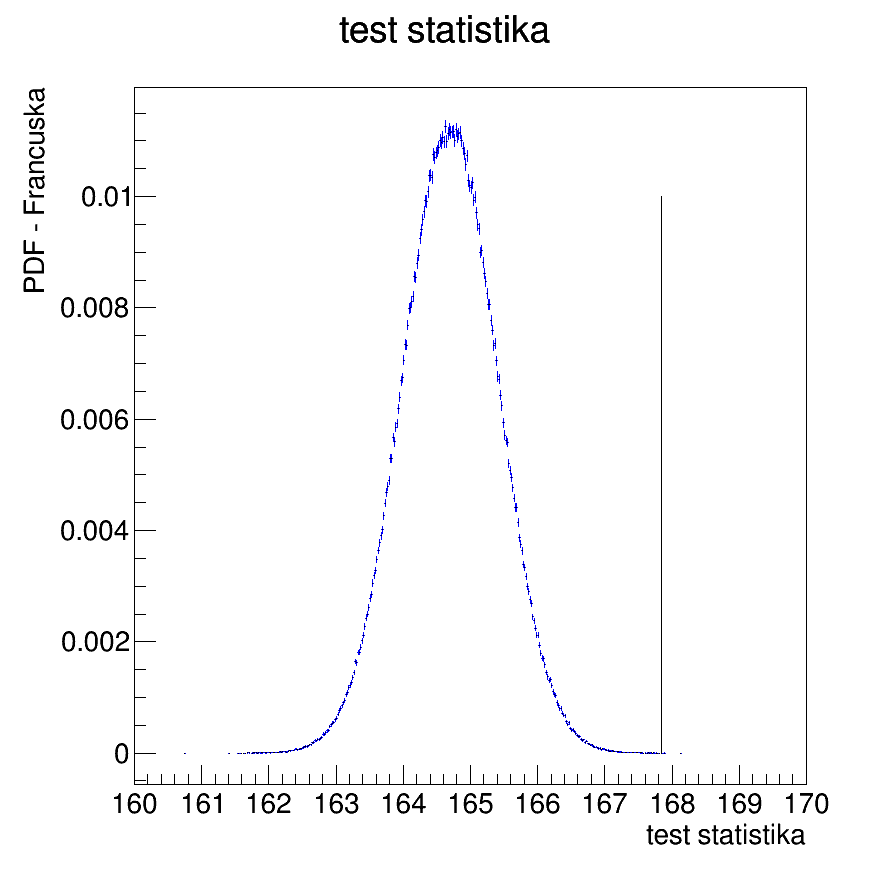
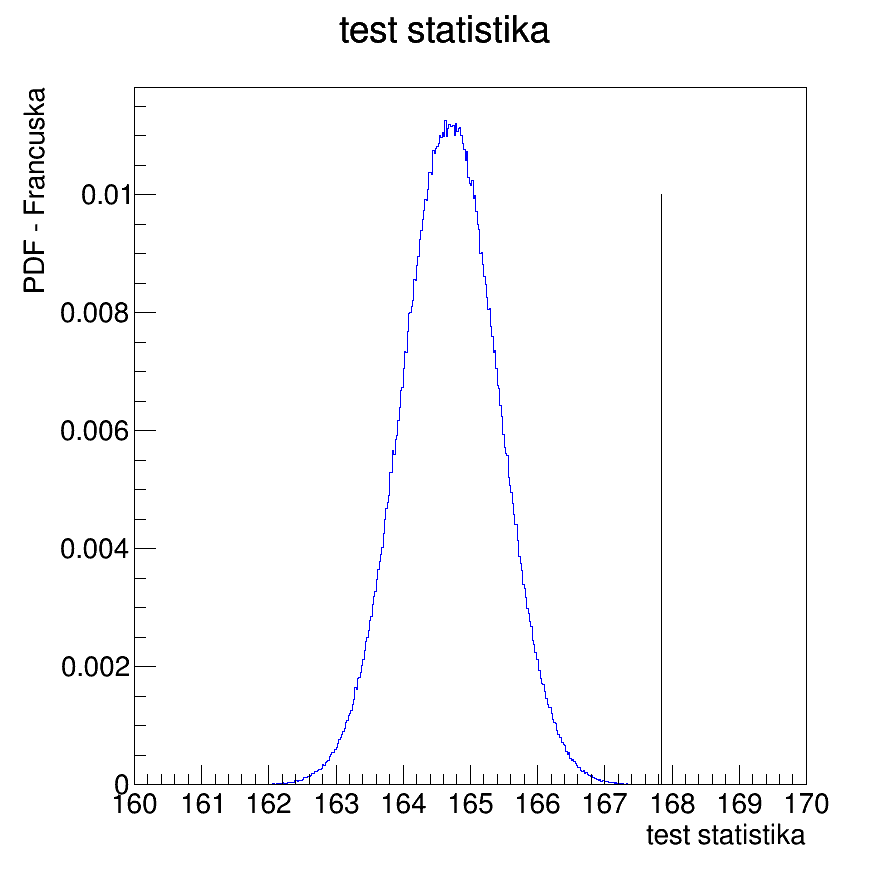
Rijesen drugi zadatak

diff --git a/Vjezbe_13/Analyzer.cpp b/Vjezbe_13/Analyzer.cpp
@@ -9,6 +9,8 @@
 #include <TMath.h>
 #include <TLine.h>
 #include <TString.h>
+#include <TLegend.h>
+#include <TLatex.h>
 
 using namespace std;
 
@@ -101,7 +103,7 @@ void Analyzer::Loop()
     testStatistika->GetYaxis()->SetTitle("PDF - Francuska");
     testStatistika->SetStats(0);
     testStatistika->SetLineColor(kBlue);
-    testStatistika->Draw();
+    testStatistika->Draw("histo");
 
     //crtamo liniju srednje vrijednosti podataka na grafu
     TLine *line;
@@ -114,16 +116,16 @@ void Analyzer::Loop()
 //zadatak 2
 void Analyzer::Usporedba(TString ime, double srednja, double greska){
 	
-	TH1F *Spanjolska;
-	TH1F *DrugaDrzava;
-	Spanjolska = new TH1F("test statistika Spanjolske", "test statistika", 500, 155, 175);
-	DrugaDrzava = new TH1F("test statistika druge drzave", "test statistika", 500, 155, 175);
+	TH1F *Spanjolska = new TH1F("", "", 500, 160, 175);;
+	TH1F *DrugaDrzava = new TH1F("", "", 500, 160, 175);;
 
 	TRandom *randomvisina;
    	randomvisina = new TRandom();	
 
-	double sumaspanjolske;
-	double sumadruge;
+	double sumaspanjolske, sumadruge;
+	double t_spanjolske, t_druge;
+	double srednja_data=167.85; //izracunata srednja vrijednost podataka iz zadatka 1 i prepisana
+	double confidencelevel;
 
 	for(int i=0; i<1000000; i++)
    	{
@@ -142,6 +144,54 @@ void Analyzer::Usporedba(TString ime, double srednja, double greska){
 	Spanjolska->Scale(1.0/Spanjolska->Integral());
 	DrugaDrzava->Scale(1.0/DrugaDrzava->Integral());
 
+	//racunamo vrijednosti korisne za racune sa CL
+	t_spanjolske=Spanjolska->Integral(Spanjolska->FindBin(srednja_data), 500);
+	t_druge=DrugaDrzava->Integral(DrugaDrzava->FindBin(srednja_data), 500);
+
+	if(ime=="Nizozemska"){
+		//nizozemsku potrebno posebno izdvojiti jer se nalazi s "desne" strane španjolske
+		confidencelevel=1-((1-t_druge)/t_spanjolske);
+		cout << "Odbijamo Nizozemsku sa confidence levelom " << confidencelevel*100 << "%." << endl;
+	}
+	else{
+		confidencelevel=1-(t_druge/(1-t_spanjolske));
+		cout << "Odbijamo " << ime << " sa confidence levelom " << confidencelevel*100 << "%." << endl; 
+	}
+	//Rezultati za confidence level:
+	//Nizozemska: odbijamo sa confidence levelom od 99.9024%
+	//Francuska: odbijamo sa confidence levelom od 99.9988%
+	//Italija: odbijamo sa confidence levelom od 99.0848%
+	
+	//Crtamo distribuciju
+	gStyle->SetOptStat(0);
+	TCanvas *c1;
+	c1 = new TCanvas("c1", "c1", 1600, 900);
+	DrugaDrzava->SetTitle("H0 vs H1");
+	Spanjolska->SetTitle("H0 vs H1");
+	DrugaDrzava->GetXaxis()->SetTitle("visina");
+    	DrugaDrzava->GetYaxis()->SetTitle("PDF");
+	Spanjolska->GetXaxis()->SetTitle("visina");
+    	Spanjolska->GetYaxis()->SetTitle("PDF");
+	DrugaDrzava->SetLineColor(kBlue);
+	Spanjolska->SetLineColor(kRed);
+
+	Spanjolska->Draw("histo");
+	DrugaDrzava->Draw("histo same");
+	//Spanjolska->Draw("histo same");
+
+	//crtanje linije podataka
+	TLine *line1 = new TLine(srednja_data, 0., srednja_data, 0.018);
+	line1->Draw();
+	TLatex *text=new TLatex(srednja_data,-0.0016,"t_{podaci}");
+	text->Draw();
+	
+	//legenda
+	TLegend *legend=new TLegend(0.7,0.8,0.9,0.9);
+	legend->AddEntry(Spanjolska, "Spanjolska", "f");
+	legend->AddEntry(DrugaDrzava, ime, "f");
+	legend->Draw();
+	
+	c1->SaveAs("Spanjolska_vs_"+ime+".png");
 }
 
 

diff --git a/Vjezbe_13/analyze.cpp b/Vjezbe_13/analyze.cpp
@@ -16,8 +16,13 @@ int main()
 	Analyzer* ob;
 	ob = new Analyzer();
 
+	//Zadatak 1
 	//ob->Loop();
-	ob->Usporedba("Francuska", 164.7, 7.1);
+
+	//Zadatak 2
+	//ob->Usporedba("Francuska", 164.7, 7.1);
+	ob->Usporedba("Nizozemska", 170.3, 7.5);
+	//ob->Usporedba("Italija", 166.1, 6.5);
 
 	delete ob;
 	
